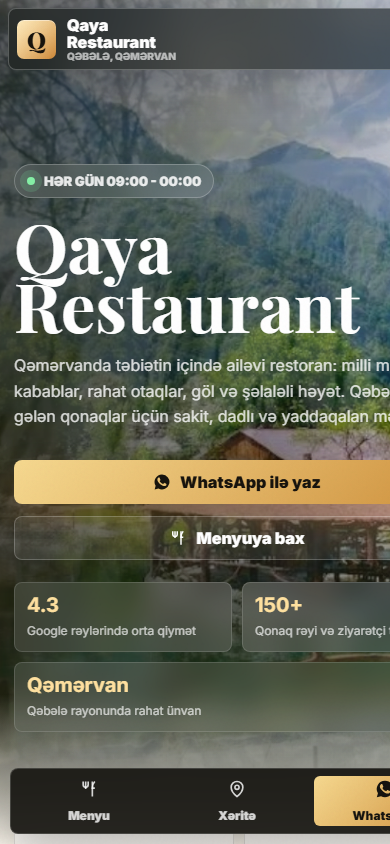
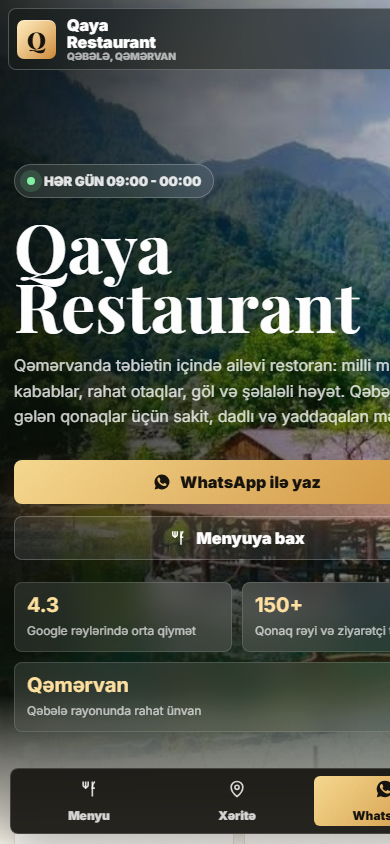
Move video to scroll atmosphere section

diff --git a/index.html b/index.html
@@ -299,20 +299,6 @@
       to { transform: scale(1.1) translate3d(-1.2%, -1%, 0); }
     }
 
-    .hero-video {
-      position: absolute;
-      inset: 0;
-      z-index: -2;
-      width: 100%;
-      height: 100%;
-      object-fit: cover;
-      object-position: center;
-      opacity: .34;
-      filter: saturate(1.12) contrast(1.05);
-      mix-blend-mode: screen;
-      pointer-events: none;
-    }
-
     .hero .wrap {
       position: relative;
       z-index: 2;
@@ -634,6 +620,94 @@
       color: var(--muted);
       line-height: 1.62;
       font-size: 14px;
+    }
+
+    .motion-section {
+      position: relative;
+      min-height: 92svh;
+      display: grid;
+      align-items: center;
+      color: #fff;
+      overflow: hidden;
+      isolation: isolate;
+      background: #15130f;
+    }
+
+    .motion-section::after {
+      content: "";
+      position: absolute;
+      inset: 0;
+      z-index: -1;
+      background:
+        linear-gradient(90deg, rgba(21,19,15,.86), rgba(21,19,15,.52) 48%, rgba(21,19,15,.34)),
+        linear-gradient(0deg, rgba(23,43,36,.82), rgba(23,43,36,.12) 55%, rgba(23,43,36,.76));
+      pointer-events: none;
+    }
+
+    .motion-video {
+      position: absolute;
+      inset: -10% 0;
+      z-index: -2;
+      width: 100%;
+      height: 120%;
+      object-fit: cover;
+      object-position: center;
+      opacity: .56;
+      filter: saturate(1.08) contrast(1.06);
+      transform: translateY(var(--video-shift, 0px)) scale(1.04);
+      transition: transform .08s linear;
+      pointer-events: none;
+    }
+
+    .motion-layout {
+      display: grid;
+      grid-template-columns: minmax(0, .95fr) minmax(320px, .62fr);
+      gap: 42px;
+      align-items: end;
+      padding: 92px 0;
+    }
+
+    .motion-copy {
+      max-width: 720px;
+    }
+
+    .motion-copy .kicker {
+      color: #f4cd78;
+    }
+
+    .motion-copy h2 {
+      max-width: 760px;
+      color: #fff;
+    }
+
+    .motion-copy p {
+      max-width: 620px;
+      margin-top: 20px;
+      color: rgba(255,255,255,.76);
+      font-size: 18px;
+      line-height: 1.72;
+    }
+
+    .motion-note {
+      padding: 22px;
+      border: 1px solid rgba(255,255,255,.18);
+      border-radius: var(--radius);
+      background: rgba(255,255,255,.11);
+      box-shadow: 0 24px 60px rgba(0,0,0,.22);
+      backdrop-filter: blur(18px);
+    }
+
+    .motion-note strong {
+      display: block;
+      color: #f6d990;
+      font-size: 28px;
+      line-height: 1;
+      margin-bottom: 10px;
+    }
+
+    .motion-note span {
+      color: rgba(255,255,255,.72);
+      line-height: 1.6;
     }
 
     .menu-section {
@@ -1189,10 +1263,6 @@
       .hero::before {
         background-position: 58% 50%;
       }
-      .hero-video {
-        opacity: .28;
-        object-position: center;
-      }
       h1 {
         font-size: clamp(48px, 15vw, 68px);
       }
@@ -1247,6 +1317,28 @@
       .quick-actions { margin-top: -18px; }
       .story-photo { min-height: 340px; }
       .feature { min-height: 210px; }
+      .motion-section {
+        min-height: 86svh;
+      }
+      .motion-video {
+        inset: -7% 0;
+        height: 114%;
+        opacity: .46;
+        object-position: center;
+      }
+      .motion-layout {
+        grid-template-columns: 1fr;
+        gap: 22px;
+        padding: 64px 0;
+        align-items: center;
+      }
+      .motion-copy p {
+        font-size: 16px;
+        line-height: 1.62;
+      }
+      .motion-note {
+        padding: 18px;
+      }
       .menu-tools {
         display: grid;
       }
@@ -1369,9 +1461,6 @@
 
   <main id="top">
     <section class="hero" aria-label="Qaya Restaurant">
-      <video class="hero-video" autoplay muted loop playsinline poster="assets/qaya-landscape.jpg" aria-hidden="true">
-        <source src="assets/qaya-hero-video.mp4" type="video/mp4">
-      </video>
       <div class="wrap hero-grid">
         <div>
           <div class="eyebrow"><span class="live-dot"></span> Hər gün 09:00 - 00:00</div>
@@ -1484,6 +1573,23 @@
               <p>Qəmərvan istiqamətində yerləşən restoran xəritədən asan tapılır.</p>
             </article>
           </div>
+        </div>
+      </div>
+    </section>
+
+    <section id="atmosfer" class="motion-section" aria-label="Qaya Restaurant video görüntüsü" data-motion-video>
+      <video class="motion-video" autoplay muted loop playsinline poster="assets/qaya-landscape.jpg" aria-hidden="true">
+        <source src="assets/qaya-hero-video.mp4" type="video/mp4">
+      </video>
+      <div class="wrap motion-layout reveal">
+        <div class="motion-copy">
+          <div class="kicker">Canlı məkan hissi</div>
+          <h2>Dağ havası, su səsi və Qaya ab-havası</h2>
+          <p>Qaya-da qonaqları dağ mənzərəsi, su səsi və təbiətin sakit ritmi qarşılayır. Burada yemək sadəcə süfrə deyil, Qəbələnin havasını hiss etdiyin kiçik istirahət anıdır.</p>
+        </div>
+        <div class="motion-note">
+          <strong>Qəmərvan</strong>
+          <span>Ailə köşkləri, göl kənarı atmosfer və təmiz dağ havası Qaya Restaurantı yolüstü yeməkdən daha yaddaqalan edir.</span>
         </div>
       </div>
     </section>
@@ -1688,6 +1794,7 @@
     const lightbox = document.querySelector("#lightbox");
     const lightboxImage = lightbox.querySelector("img");
     const closeLightbox = document.querySelector("#closeLightbox");
+    const motionSection = document.querySelector("[data-motion-video]");
     let activeCategory = "all";
 
     function icon(name) {
@@ -1740,6 +1847,15 @@
       const max = document.documentElement.scrollHeight - window.innerHeight;
       const percent = max > 0 ? (window.scrollY / max) * 100 : 0;
       progress.style.width = `${percent}%`;
+
+      if (motionSection) {
+        const rect = motionSection.getBoundingClientRect();
+        const range = window.innerHeight + rect.height;
+        const raw = (window.innerHeight - rect.top) / range;
+        const clamped = Math.min(1, Math.max(0, raw));
+        const shift = (clamped - .5) * 72;
+        motionSection.style.setProperty("--video-shift", `${shift}px`);
+      }
     }
 
     menuTabs.forEach((tab) => {
